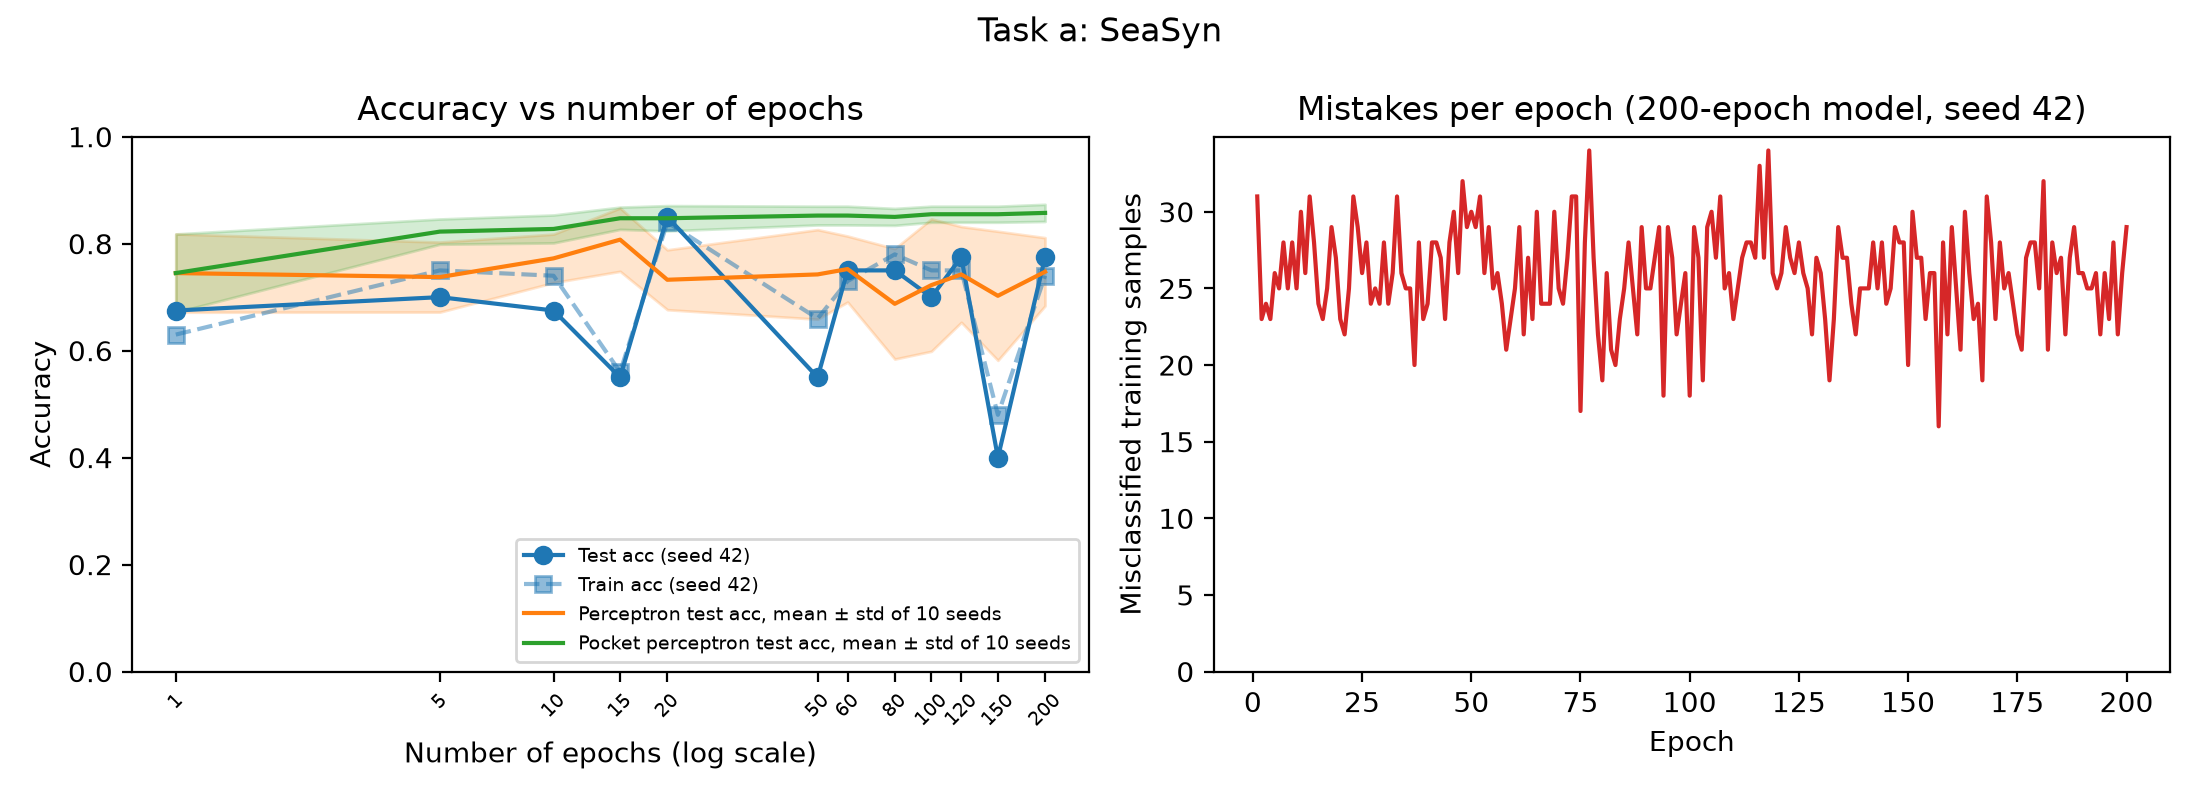
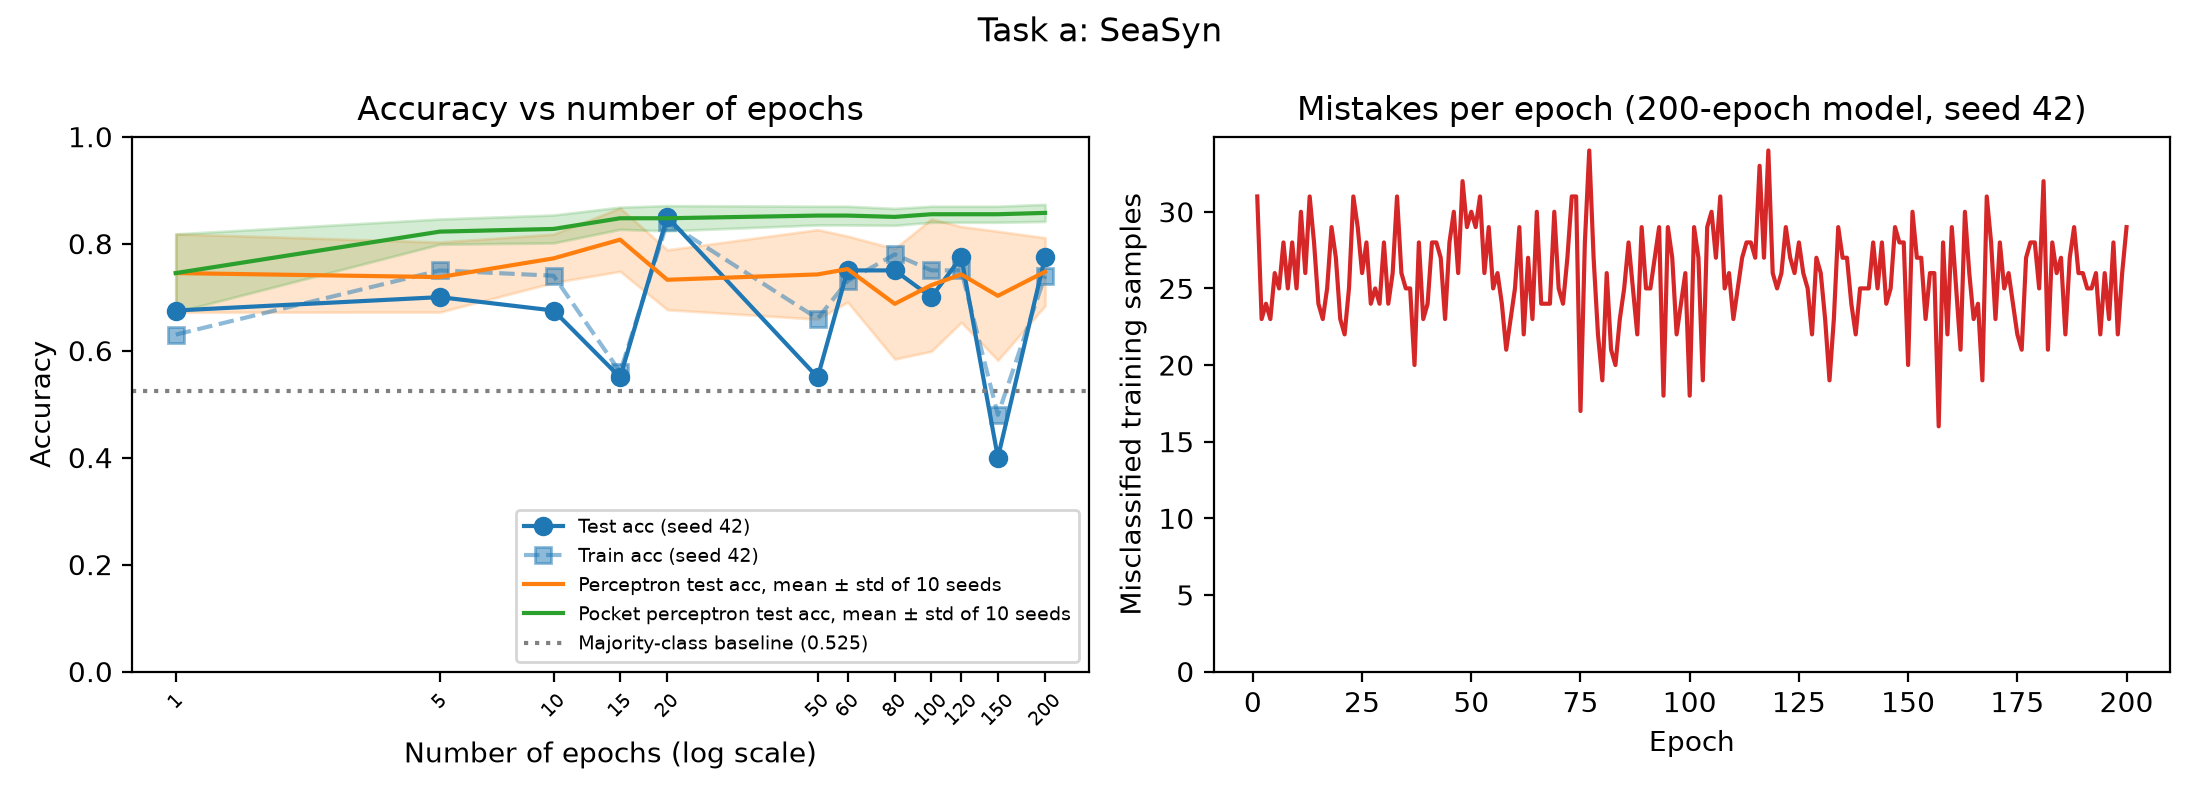
feat(perceptron): add Task b RingSyn sweep with baseline, confusion matrix and r^2 check

Changed region(s): [[0.2164, 0.625, 0.4945, 0.8125]]

diff --git a/part2/perceptron.py b/part2/perceptron.py
@@ -14,6 +14,7 @@ The model itself uses only numpy. No machine learning library is used in this fi
 Run from the repo root:
     .venv/Scripts/python part2/perceptron.py              # all tasks
     .venv/Scripts/python part2/perceptron.py --task a     # Task a (SeaSyn) only
+    .venv/Scripts/python part2/perceptron.py --task b     # Task b (RingSyn) only
     .venv/Scripts/python part2/perceptron.py --plot       # also save figures to part2/figures/
     .venv/Scripts/python part2/perceptron.py --selftest   # AND / XOR sanity checks
 """
@@ -30,6 +31,7 @@ EPOCHS = [1, 5, 10, 15, 20, 50, 60, 80, 100, 120, 150, 200]  # from the handout
 # task -> (title, train file, test file)
 TASKS = {
     "a": ("Task a: SeaSyn", "SeaSynTrain", "SeaSynTest"),
+    "b": ("Task b: RingSyn", "RingSynTrain", "RingSynTest"),  # same perceptron, no changes
 }
 
 
@@ -173,14 +175,23 @@ def selftest():
     return passed
 
 
-def load_scaled(train_name, test_name):
+def add_radius_feature(X, names):
+    """Append r^2 = x1^2 + x2^2 (squared distance from the origin) as an extra feature."""
+    return np.c_[X, (X[:, :2] ** 2).sum(axis=1)], [*names, f"{names[0]}^2 + {names[1]}^2"]
+
+
+def load_scaled(train_name, test_name, radius_feature=False):
     """Load a train/test pair and standardise both with the scaler fitted on train only.
 
     Returns (X_train, y_train, X_test, y_test, scaler, feature_names). The scaler is
     returned so the plots can show the original, unscaled feature values.
+    radius_feature=True adds r^2 as a third input (only used for the extra Task b check).
     """
     X_train, y_train, names = load_dataset(train_name)
     X_test, y_test, _ = load_dataset(test_name)
+    if radius_feature:
+        X_test, _ = add_radius_feature(X_test, names)
+        X_train, names = add_radius_feature(X_train, names)
     scaler = StandardScaler().fit(X_train)
     return scaler.transform(X_train), y_train, scaler.transform(X_test), y_test, scaler, names
 
@@ -219,12 +230,43 @@ def multi_seed_test_acc(X_train, y_train, X_test, y_test, n_seeds, pocket=False)
     return acc
 
 
-def print_sweep_table(title, rows, n_train, n_test, seed):
-    print(f"{title} (train {n_train}, test {n_test}, seed {seed})")
-    print("| Model (epoch)    | Train acc | Test acc | Mistakes in last epoch |")
-    print("|------------------|-----------|----------|------------------------|")
-    for n_epochs, train_acc, test_acc, mistakes, _ in rows:
-        print(f"| {f'Perceptron ({n_epochs})':<16} | {train_acc:9.3f} | {test_acc:8.3f} | {mistakes:22d} |")
+def print_sweep_table(title, rows, n_train, X_test, seed):
+    """Print the results table. 'Predicted 1' is the share of test samples predicted as class 1."""
+    print(f"{title} (train {n_train}, test {len(X_test)}, seed {seed})")
+    print("| Model (epoch)    | Train acc | Test acc | Predicted 1 | Mistakes in last epoch |")
+    print("|------------------|-----------|----------|-------------|------------------------|")
+    for n_epochs, train_acc, test_acc, mistakes, model in rows:
+        pred_1 = model.predict(X_test).mean()
+        print(f"| {f'Perceptron ({n_epochs})':<16} | {train_acc:9.3f} | {test_acc:8.3f} | {pred_1:11.3f} | {mistakes:22d} |")
+    print()
+
+
+def confusion_matrix(y_true, y_pred):
+    """2x2 matrix: rows = true class 0/1, columns = predicted class 0/1."""
+    return np.array([[np.sum((y_true == t) & (y_pred == p)) for p in (0, 1)] for t in (0, 1)])
+
+
+def majority_baseline(y_train, y_test):
+    """Test accuracy of always predicting the most common class in the training set."""
+    majority = np.bincount(y_train).argmax()
+    return majority, accuracy(y_test, majority)
+
+
+def print_diagnostics(rows, y_train, X_test, y_test):
+    """Majority-class baseline, confusion matrix of the last model, and whether training ever converged."""
+    majority, baseline = majority_baseline(y_train, y_test)
+    print(f"Majority-class baseline (always predict {majority}): test acc {baseline:.3f}")
+
+    n_epochs, _, _, _, model = rows[-1]
+    cm = confusion_matrix(y_test, model.predict(X_test))
+    print(f"Test confusion matrix, Perceptron ({n_epochs}):")
+    print("|         | Pred 0 | Pred 1 |")
+    print("|---------|--------|--------|")
+    for t in (0, 1):
+        print(f"| True {t}  | {cm[t, 0]:6d} | {cm[t, 1]:6d} |")
+    errors = model.errors_
+    print(f"Mistakes per epoch over all {len(errors)} epochs: min {min(errors)}, max {max(errors)}"
+          f" ({'converged' if min(errors) == 0 else 'never 0, so it never converged'})")
     print()
 
 
@@ -255,7 +297,7 @@ def _save(fig, filename):
     print(f"Saved {out_path.relative_to(Path(__file__).resolve().parent.parent).as_posix()}")
 
 
-def plot_sweep(task, title, rows, plain, pocket, seed):
+def plot_sweep(task, title, rows, plain, pocket, seed, baseline):
     """Save accuracy vs epochs and mistakes per epoch to part2/figures/."""
     plt = _pyplot()
     fig, (ax_acc, ax_err) = plt.subplots(1, 2, figsize=(11, 4))
@@ -267,6 +309,7 @@ def plot_sweep(task, title, rows, plain, pocket, seed):
         mean, std = acc.mean(axis=0), acc.std(axis=0)
         ax_acc.plot(epochs, mean, color=colour, label=f"{name} test acc, mean ± std of {acc.shape[0]} seeds")
         ax_acc.fill_between(epochs, mean - std, mean + std, color=colour, alpha=0.2)
+    ax_acc.axhline(baseline, color="grey", linestyle=":", label=f"Majority-class baseline ({baseline:.3f})")
     ax_acc.set_xscale("log")
     ax_acc.set_xticks(epochs)
     ax_acc.minorticks_off()
@@ -336,16 +379,36 @@ def run_task(task, seed, n_seeds, plot):
     X_train, y_train, X_test, y_test, scaler, names = load_scaled(train_name, test_name)
 
     rows = run_epoch_sweep(X_train, y_train, X_test, y_test, seed)
-    print_sweep_table(title, rows, len(X_train), len(X_test), seed)
+    print_sweep_table(title, rows, len(X_train), X_test, seed)
+    print_diagnostics(rows, y_train, X_test, y_test)
 
     plain = multi_seed_test_acc(X_train, y_train, X_test, y_test, n_seeds)
     pocket = multi_seed_test_acc(X_train, y_train, X_test, y_test, n_seeds, pocket=True)
     print_multi_seed_table(plain, pocket)
 
     if plot:
-        plot_sweep(task, title, rows, plain, pocket, seed)
+        plot_sweep(task, title, rows, plain, pocket, seed, majority_baseline(y_train, y_test)[1])
         plot_boundary_grid(task, title, rows, X_train, y_train, scaler, names, seed)
         print()
+
+    if task == "b":
+        print_radius_feature_check(train_name, test_name, seed)
+
+
+def print_radius_feature_check(train_name, test_name, seed):
+    """Extra check for Task b: the same perceptron, given r^2 = x1^2 + x2^2 as a third input.
+
+    The model is unchanged. Only the input changes, which shows that the problem in Task b
+    is the features, not the training.
+    """
+    X_train, y_train, X_test, y_test, _, names = load_scaled(train_name, test_name, radius_feature=True)
+    rows = run_epoch_sweep(X_train, y_train, X_test, y_test, seed)
+    print(f"Extra check: same perceptron with inputs {', '.join(names)} (seed {seed})")
+    print("| Epochs | " + " | ".join(f"{e:5d}" for e in EPOCHS) + " |")
+    print("|--------|" + "|".join("-------" for _ in EPOCHS) + "|")
+    print("| Train  | " + " | ".join(f"{r[1]:.3f}" for r in rows) + " |")
+    print("| Test   | " + " | ".join(f"{r[2]:.3f}" for r in rows) + " |")
+    print()
 
 
 def main():

diff --git a/report/report.md b/report/report.md
@@ -163,7 +163,7 @@ Part 2 uses two binary classification datasets. Each has a separate train and te
 
 Both datasets are close enough to balanced for accuracy to be a sensible metric, although RingSyn leans towards class 1. A model that always predicts class 1 already gets **65.7%** on the RingSyn test set, so this majority-class baseline is used as the yardstick in Tasks b and c. A useful model has to beat it clearly.
 
-In RingSyn, class 1 is an inner disc (mean distance from the origin 0.71) and class 0 is a ring around it (mean distance 0.99), so the classes cannot be separated by a straight line. The handout calls the RingSyn features `x1` and `x2`, but the files name them `feature1` and `feature2`, so the code reads the column names from each file's header instead of hard-coding them.
+In RingSyn, class 1 forms a complete ring around the origin (most points are 0.54–0.88 from the origin), and class 0 forms a wider half-ring outside it (0.82–1.15 from the origin) that only covers the lower half: every class 0 point has feature2 < 0. The two classes overlap slightly where their distances from the origin meet, at about 0.85, and they cannot be separated by a straight line (see Figure 6). The handout calls the RingSyn features `x1` and `x2`, but the files name them `feature1` and `feature2`, so the code reads the column names from each file's header instead of hard-coding them.
 
 One thing to note about SeaSyn: the 40 test rows are identical to the first 40 rows of the training file. The SeaSyn "test" accuracy in Task a is therefore measured on data the perceptron was trained on, and it shows how well the model fits the training data rather than how well it generalises. The RingSyn train and test files share no rows.
 
@@ -245,6 +245,76 @@ The pocket results confirm this. Keeping the best weights seen during training m
 Two caveats apply to these numbers. The test set has only 40 samples, so each mistake changes test accuracy by 2.5 percentage points. Also, as noted in the Data section, the 40 test rows are copies of the first 40 training rows, so test accuracy closely follows training accuracy and says little about how well the model generalises to new data.
 
 ### Task b: Perceptron on non-linearly separable data (RingSyn)
+
+Task b reuses the Task a perceptron and experiment code without any changes. Only the data files are different (`python3 part2/perceptron.py --task b`). As before, each row is a fresh model trained with seed 42. The "Predicted 1" column is the share of the 300 test samples that the model predicts as class 1.
+
+| Model (epoch) | Train accuracy | Test accuracy | Predicted 1 | Mistakes in last epoch |
+|---|---|---|---|---|
+| Perceptron (1) | 0.700 | 0.743 | 0.593 | 133 |
+| Perceptron (5) | 0.673 | 0.697 | 0.440 | 127 |
+| Perceptron (10) | 0.764 | 0.757 | 0.693 | 141 |
+| Perceptron (15) | 0.698 | 0.727 | 0.557 | 140 |
+| Perceptron (20) | 0.660 | **0.640** | 0.537 | 144 |
+| Perceptron (50) | 0.689 | 0.747 | 0.510 | 147 |
+| Perceptron (60) | 0.733 | **0.790** | 0.720 | 134 |
+| Perceptron (80) | 0.689 | 0.730 | 0.580 | 138 |
+| Perceptron (100) | 0.669 | 0.657 | 1.000 | 143 |
+| Perceptron (120) | 0.728 | 0.773 | 0.677 | 129 |
+| Perceptron (150) | 0.722 | 0.727 | 0.570 | 126 |
+| Perceptron (200) | 0.711 | 0.747 | 0.583 | 139 |
+
+The majority-class baseline (always predicting class 1) gets **0.657** on the test set. The confusion matrix of the 200-epoch model on the test set is:
+
+| | Predicted 0 | Predicted 1 |
+|---|---|---|
+| **True 0** | 76 | 27 |
+| **True 1** | 49 | 148 |
+
+Mean ± std test accuracy over seeds 0–9, for the plain and pocket perceptrons (as in Task a):
+
+| Epochs | Perceptron test accuracy | Pocket perceptron test accuracy |
+|---|---|---|
+| 1 | 0.723 ± 0.041 | 0.723 ± 0.041 |
+| 5 | 0.679 ± 0.065 | 0.758 ± 0.045 |
+| 10 | 0.686 ± 0.058 | 0.777 ± 0.036 |
+| 15 | 0.699 ± 0.062 | 0.775 ± 0.038 |
+| 20 | 0.688 ± 0.043 | 0.780 ± 0.029 |
+| 50 | 0.719 ± 0.040 | 0.781 ± 0.010 |
+| 60 | 0.689 ± 0.065 | 0.783 ± 0.010 |
+| 80 | 0.730 ± 0.048 | 0.783 ± 0.010 |
+| 100 | 0.727 ± 0.068 | 0.783 ± 0.010 |
+| 120 | 0.713 ± 0.053 | 0.782 ± 0.009 |
+| 150 | 0.698 ± 0.062 | 0.781 ± 0.009 |
+| 200 | 0.716 ± 0.058 | 0.784 ± 0.009 |
+
+![Task b accuracy and mistakes per epoch](../part2/figures/task_b_perceptron.png)
+
+*Figure 5: Left: accuracy against the number of epochs (log scale) on RingSyn, with the majority-class baseline as a dotted line. Right: training samples misclassified in each epoch of the 200-epoch model (seed 42), which stays between 119 and 162.*
+
+![Task b decision boundaries](../part2/figures/task_b_boundaries.png)
+
+*Figure 6: The decision boundary of each model in the first table (seed 42), drawn over the RingSyn training data. RingSyn has only two features, so this is the full picture, not a slice.*
+
+**How well does the perceptron perform on this dataset?**
+
+The perceptron performs **poorly** on RingSyn. Its test accuracy ranges from 0.640 to 0.790 with seed 42, and averages 0.68–0.73 over 10 seeds. This is only 2–7 percentage points better than always predicting class 1 (0.657). The 20-epoch model is actually worse than the baseline. The 100-epoch model predicts class 1 for every test sample and scores exactly the baseline, 0.657. Training accuracy (0.66–0.76) is no better: always predicting class 1 already gets 0.669 of the training set right.
+
+As in Task a, more epochs do not help. Accuracy jumps between rows with no trend, and the perceptron never converges. In every epoch it misclassifies 119–162 of the 453 training samples, and the count never drops below 107 for any of the 10 seeds. So the weights change throughout training, and each row is just a snapshot of a line that keeps moving.
+
+The reason is the shape of the data. A perceptron can only draw one straight line, but RingSyn's classes are curved: class 1 is a full inner ring, and class 0 is a half-ring outside it, in the lower half only. The best a line can do is what Figure 6 shows in almost every panel: a roughly horizontal line across the lower half, predicting class 1 above it. This gets the top half right (it is all class 1), but in the lower half, the two classes lie on concentric arcs that no straight line can split. The bottom of the inner ring falls below the line and is predicted as class 0, and the two ends of the outer half-ring, which curve up to feature2 ≈ 0, stay above it and are predicted as class 1. These are the two kinds of error in the confusion matrix: 49 class 1 points predicted as 0, and 27 class 0 points predicted as 1. The perceptron keeps swapping between these errors, so the line keeps tilting and moving up and down.
+
+Even the best line found during training is limited. The pocket version reaches only about 0.78 test accuracy (about 0.79–0.80 on the training set) and levels off after about 20 epochs. This is very different from Task a:
+
+| | SeaSyn (Task a) | RingSyn (Task b) |
+|---|---|---|
+| Majority-class baseline (test) | 0.525 | 0.657 |
+| Plain perceptron, mean test accuracy over seeds | 0.69–0.81 | 0.68–0.73 |
+| Pocket perceptron, mean test accuracy at 200 epochs | 0.857 | 0.784 |
+| Gain of the pocket perceptron over the baseline | +33 points | +13 points |
+
+Neither dataset converges, but for different reasons. SeaSyn has a good linear boundary, and only noise stops the perceptron from settling on it. RingSyn has no good linear boundary at all, so even the best line is only a modest improvement on guessing the majority class.
+
+The limitation comes from the perceptron's linear decision boundary, not from how it is trained. As an extra check (also printed by `--task b`), I gave the **same, unchanged** perceptron a third input, r² = feature1² + feature2², the squared distance from the origin. A threshold on r² separates the inner ring from the outer half-ring, and a straight line in (feature1, feature2, r²) space corresponds to a circle in the original two features. With this one extra feature, test accuracy rises to 0.79–0.95 across the epoch counts (0.953 after 200 epochs). It still doesn't converge, because the two classes overlap slightly at radius ≈ 0.85. Choosing a feature like r² by hand only works because I looked at the data. A multilayer perceptron's hidden layer can learn suitable non-linear features by itself, which is what Task c tests.
 
 ### Task c: MLP on non-linearly separable data (RingSyn)
 
